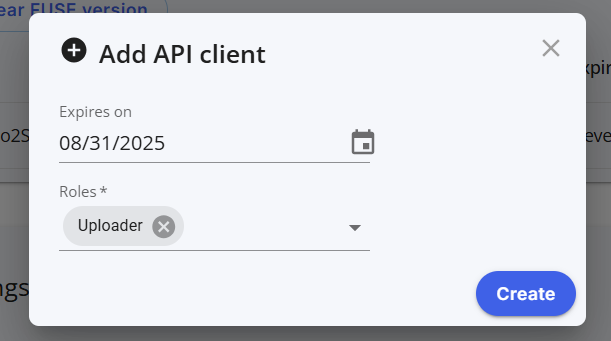
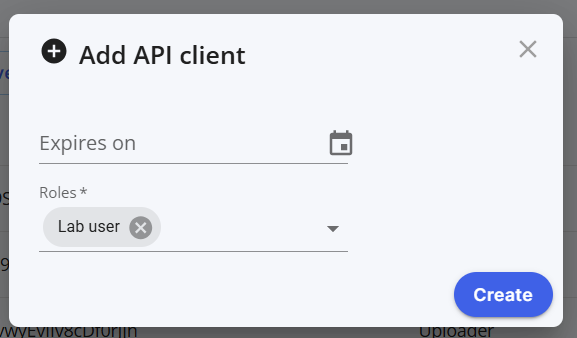
fix permissions

diff --git a/docs/guides/bulk-import-tool/index.md b/docs/guides/bulk-import-tool/index.md
@@ -5,7 +5,7 @@ The Bulk Import Tool is a utility provided to Techcyte users as a way to upload 
 
 ## II. Prerequisites
 In order to use the Bulk Import Tool you'll need:
-- A Techcyte account with appropriate permission (Uploader, etc.)
+- A Techcyte account with appropriate permission (Lab admin OR Lab user)
 - The experimental company "Bulk import tool" feature flag turned on
 
 ## III. Step-by-Step Instructions

diff --git a/docs/guides/external-container-service/index.md b/docs/guides/external-container-service/index.md
@@ -8,7 +8,7 @@ The External Container Service (ECS) is a standalone product designed to provide
 
 In order to use the ECS you'll need:
 
-1. A Techcyte account with appropriate permission (Lab Admin, etc.)  
+1. A Techcyte account with appropriate permission (Lab Admin or Lab User)  
 2. The experimental company "External Container Service" feature flag turned on
 
 ## III. Step-by-Step Instructions

diff --git a/docs/guides/creating-an-api-key/index.md b/docs/guides/creating-an-api-key/index.md
@@ -20,7 +20,7 @@ In the API Clients section, click "Add API client".
 
 ### 3. Configure the API client
 
-Configure and create.
+Configure and create. To report external results and complete a task you must have `Lab Admin` or `Lab User` permission.
 
   ![](images/image3.png)
 
